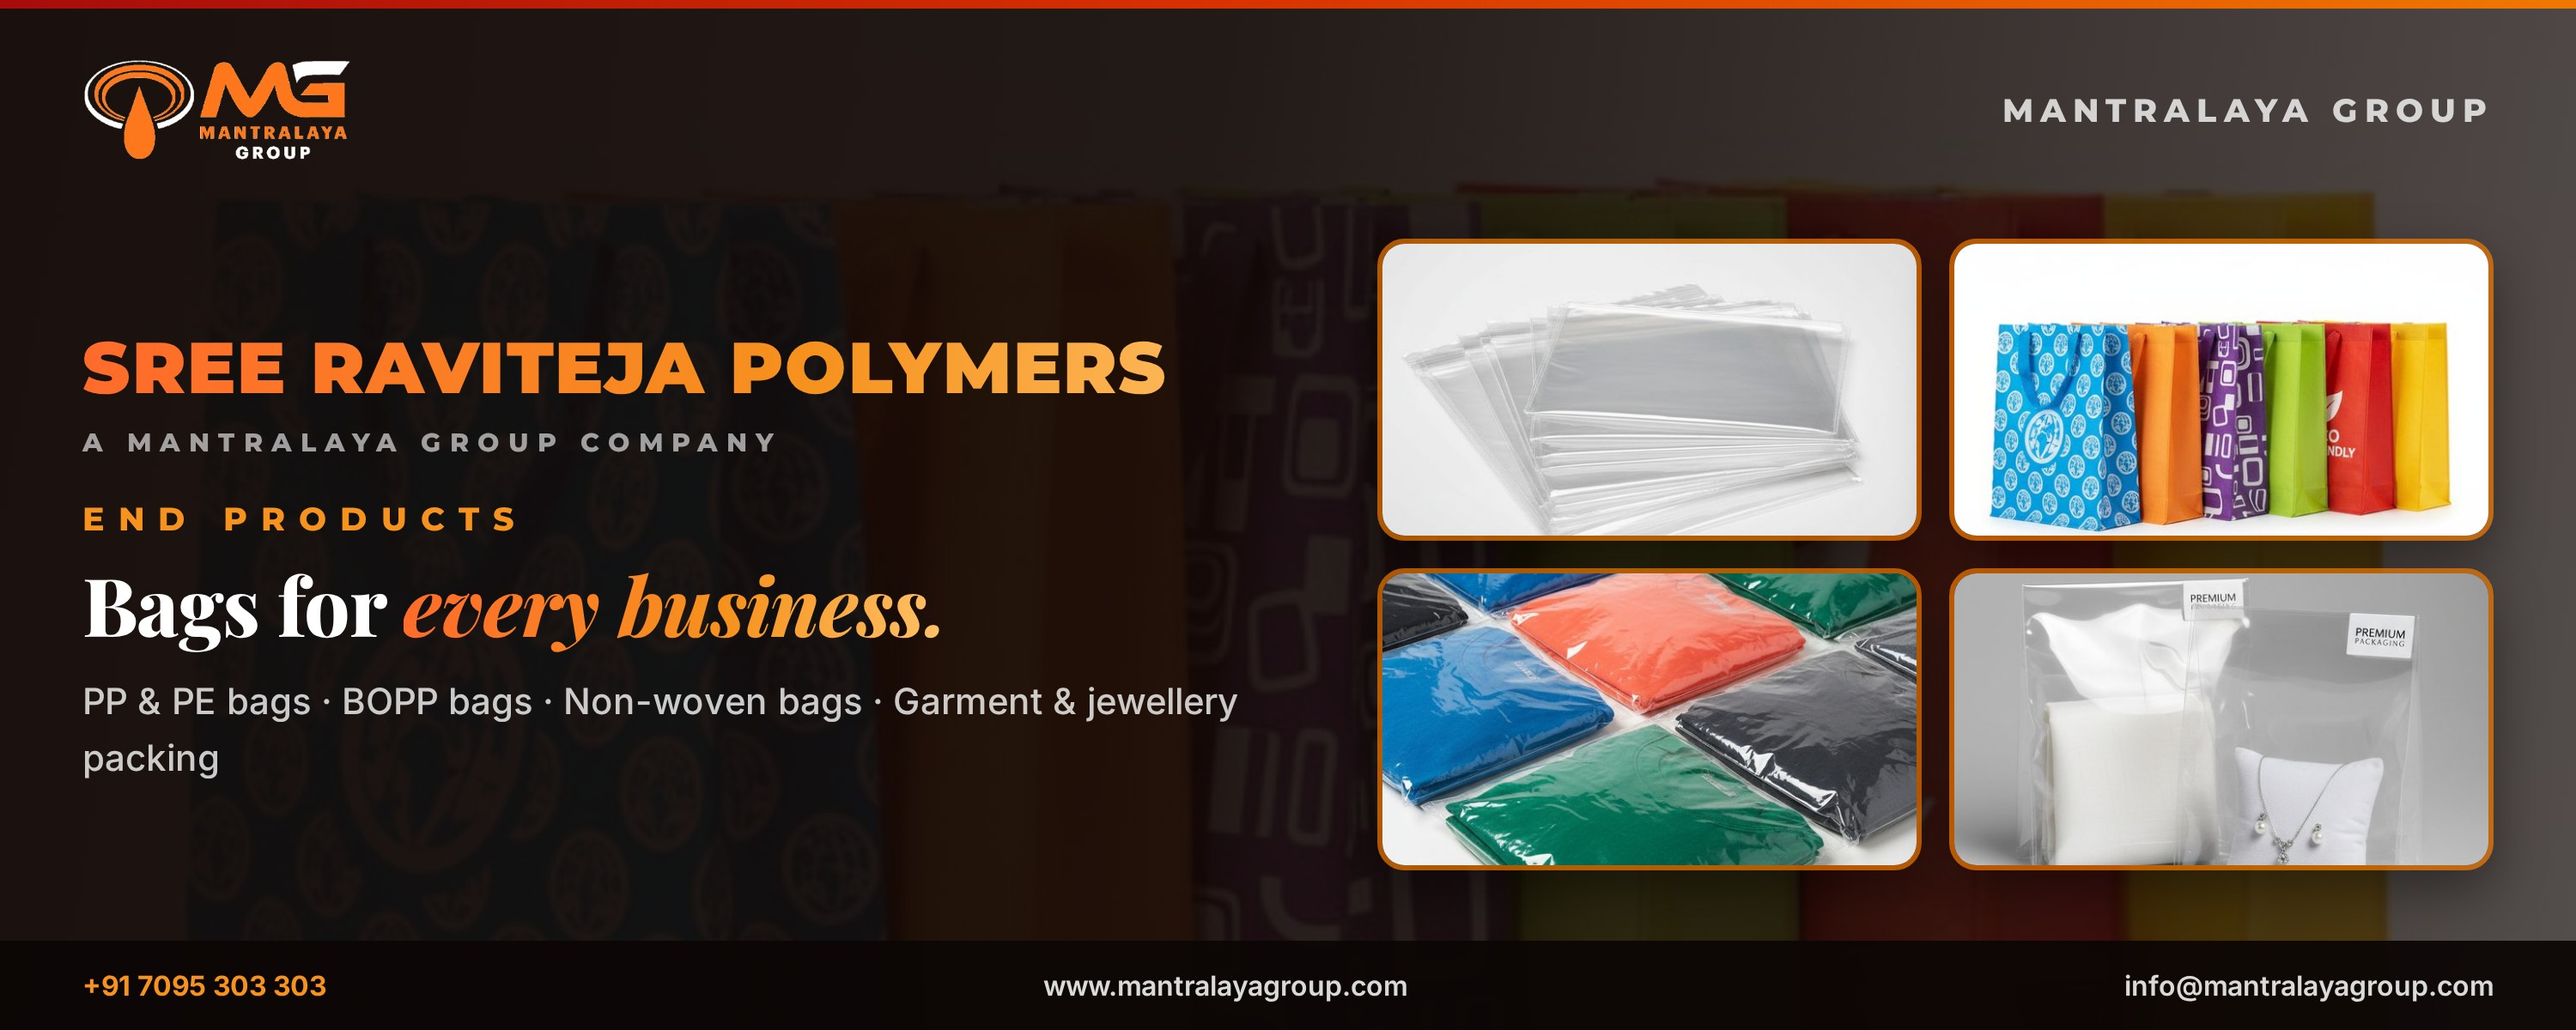
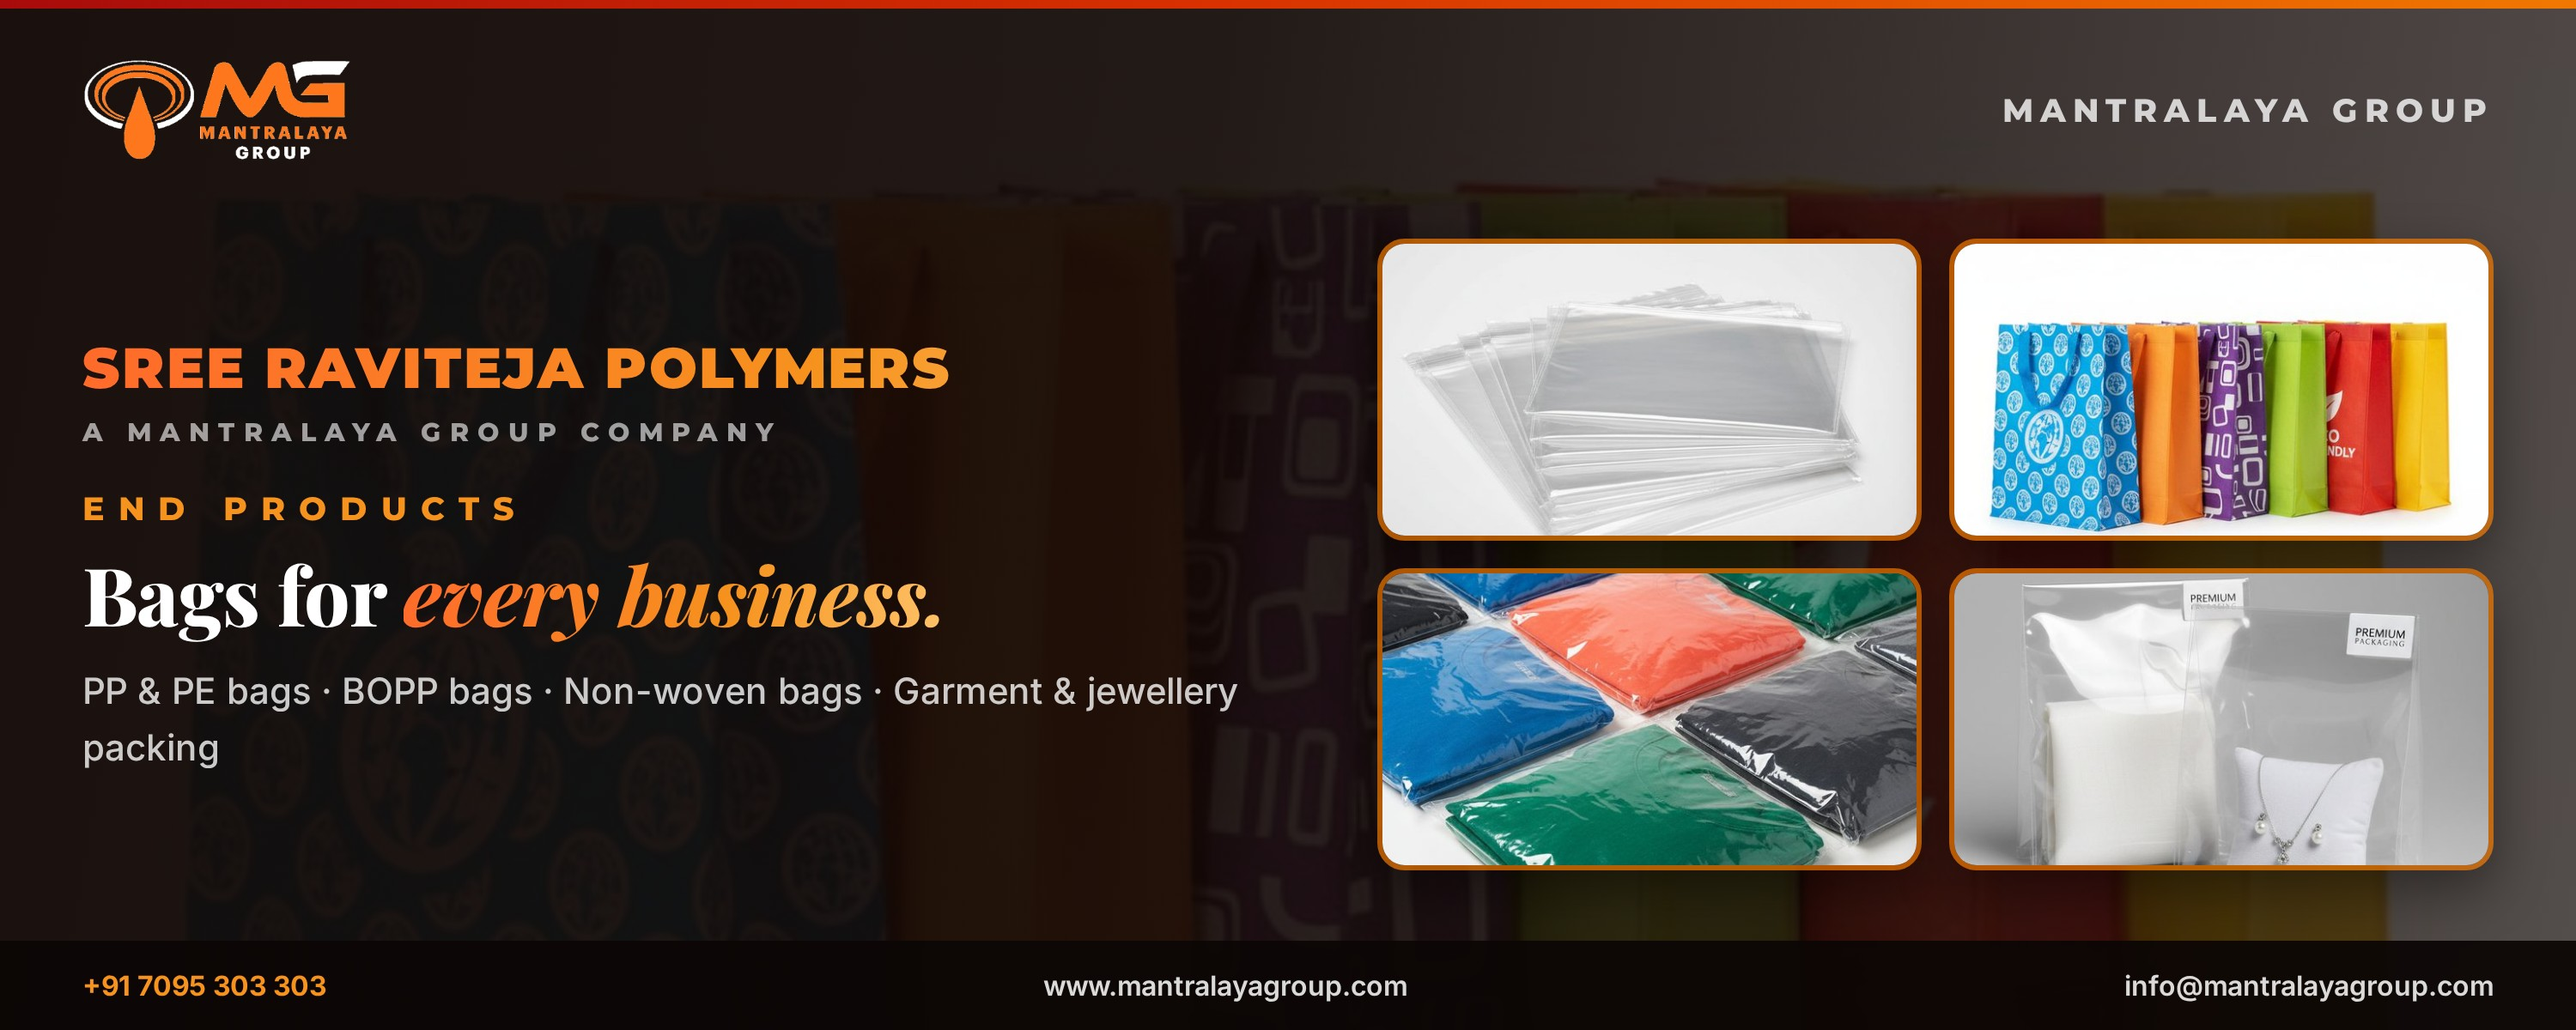
Poster 09: smaller Sree Raviteja Polymers heading

Changed region(s): [[0.031, 0.3083, 0.465, 0.5242], [0.031, 0.555, 0.496, 0.7708]]

diff --git a/posters/src/poster-09-bags--dark.html b/posters/src/poster-09-bags--dark.html
@@ -19,7 +19,7 @@ body{width:1500px;height:600px;overflow:hidden;position:relative;font-family:'Mo
 .cap2{font-size:47px;margin-top:12px}
 .cap2 em{background:linear-gradient(100deg,#FF6A2B,#F6921E 60%,#FFC46B);-webkit-background-clip:text;background-clip:text;color:transparent;font-style:italic}
 .sub{margin-top:16px;font-family:'Inter',sans-serif;font-size:21px;font-weight:500;color:rgba(255,255,255,0.78);line-height:1.55}
-.cohero{font-size:42px;font-weight:900;letter-spacing:1px;background:linear-gradient(100deg,#FF6A2B,#F6921E 60%,#FFC46B);-webkit-background-clip:text;background-clip:text;color:transparent;}
+.cohero{font-size:33px;font-weight:900;letter-spacing:1px;background:linear-gradient(100deg,#FF6A2B,#F6921E 60%,#FFC46B);-webkit-background-clip:text;background-clip:text;color:transparent;}
 .cotag{margin-top:8px;margin-bottom:24px;font-size:15px;font-weight:800;letter-spacing:5px;color:rgba(255,255,255,0.6)}
 .tiles{flex:1;display:grid;grid-template-columns:repeat(2,1fr);gap:16px}
 .tile{border-radius:16px;overflow:hidden;border:3px solid rgba(240,120,0,0.7);aspect-ratio:1.8;box-shadow:0 12px 30px rgba(0,0,0,0.4)}

diff --git a/posters/src/poster-09-bags--light.html b/posters/src/poster-09-bags--light.html
@@ -19,7 +19,7 @@ body{width:1500px;height:600px;overflow:hidden;position:relative;font-family:'Mo
 .cap2{font-size:47px;margin-top:12px}
 .cap2 em{background:linear-gradient(100deg,#A80B0B,#D83000 45%,#F07800);-webkit-background-clip:text;background-clip:text;color:transparent;font-style:italic}
 .sub{margin-top:16px;font-family:'Inter',sans-serif;font-size:21px;font-weight:500;color:#3A4250;line-height:1.55}
-.cohero{font-size:42px;font-weight:900;letter-spacing:1px;background:linear-gradient(100deg,#A80B0B,#D83000 45%,#F07800);-webkit-background-clip:text;background-clip:text;color:transparent;}
+.cohero{font-size:33px;font-weight:900;letter-spacing:1px;background:linear-gradient(100deg,#A80B0B,#D83000 45%,#F07800);-webkit-background-clip:text;background-clip:text;color:transparent;}
 .cotag{margin-top:8px;margin-bottom:24px;font-size:15px;font-weight:800;letter-spacing:5px;color:#8A93A0}
 .tiles{flex:1;display:grid;grid-template-columns:repeat(2,1fr);gap:16px}
 .tile{border-radius:16px;overflow:hidden;border:3px solid #D83000;aspect-ratio:1.8;box-shadow:0 12px 30px rgba(0,0,0,0.12)}

diff --git a/posters/gen2.py b/posters/gen2.py
@@ -84,7 +84,7 @@ def appsposter(w,h,dark,label,cap,cols_data,bgphoto):
 </style>{bgimg(bgphoto)}{hdr(dark)}
 <div class="wrap z"><div class="label">{label}</div><div class="cap cap2">{cap}</div><div class="cols">{cols}</div></div>{FOOT}"""
 
-def duoposter(w,h,dark,label,cap,sub,photos,bgphoto,co='MANTRALAYA GROUP',cohero=None,tile_ar=None):
+def duoposter(w,h,dark,label,cap,sub,photos,bgphoto,co='MANTRALAYA GROUP',cohero=None,tile_ar=None,cohero_size=42):
     tcls = 'tiles three' if len(photos)==3 else 'tiles'
     hero = ''
     if cohero:
@@ -96,7 +96,7 @@ def duoposter(w,h,dark,label,cap,sub,photos,bgphoto,co='MANTRALAYA GROUP',cohero
 .cap2{{font-size:47px;margin-top:12px}}
 .cap2 em{{{GT_W if dark else GT_D}font-style:italic}}
 .sub{{margin-top:16px;font-family:'Inter',sans-serif;font-size:21px;font-weight:500;color:{'rgba(255,255,255,0.78)' if dark else '#3A4250'};line-height:1.55}}
-.cohero{{font-size:42px;font-weight:900;letter-spacing:1px;{GT_W if dark else GT_D}}}
+.cohero{{font-size:{cohero_size}px;font-weight:900;letter-spacing:1px;{GT_W if dark else GT_D}}}
 .cotag{{margin-top:8px;margin-bottom:24px;font-size:15px;font-weight:800;letter-spacing:5px;color:{'rgba(255,255,255,0.6)' if dark else '#8A93A0'}}}
 .tiles{{flex:1;display:grid;grid-template-columns:repeat(2,1fr);gap:16px}}
 .tile{{border-radius:16px;overflow:hidden;border:3px solid {'rgba(240,120,0,0.7)' if dark else '#D83000'};aspect-ratio:{tile_ar or 1.25};box-shadow:0 12px 30px rgba(0,0,0,{'0.4' if dark else '0.12'})}}
@@ -481,7 +481,7 @@ def build(dark):
     v['poster-08-sutli-ropes'] = (1500,600, duoposter(1500,600,dark,'END PRODUCTS',f"Sutli, ropes &amp; twine — {em('every budget.')}",
       'Sutli under multiple brands · Reprocessed plastic granules from recycled waste.',['plastic-sutli','rope-yellow','recycled-granules'],'ropes',cohero='BALA GANESHA POLYMERS'))
     v['poster-09-bags'] = (1500,600, duoposter(1500,600,dark,'END PRODUCTS',f"Bags for {em('every business.')}",
-      'PP &amp; PE bags · BOPP bags · Non-woven bags · Garment &amp; jewellery packing',['pp-bags','non-woven-bags','garment-bags','bopp-bags'],'non-woven-bags',cohero='SREE RAVITEJA POLYMERS',tile_ar=1.8))
+      'PP &amp; PE bags · BOPP bags · Non-woven bags · Garment &amp; jewellery packing',['pp-bags','non-woven-bags','garment-bags','bopp-bags'],'non-woven-bags',cohero='SREE RAVITEJA POLYMERS',tile_ar=1.8,cohero_size=33))
     v['poster-10-films'] = (1000,1000, photoposter(1000,1000,dark,'POLY FILMS','Films that protect what you make.','Treated rolls · Stretch film · Packaging films','treated-rolls'))
     v['poster-11-pands'] = (1000,1500, collageposter(1000,1500,dark,'PRODUCTS &amp; STORES',f"Everything plastic.<br>{em('Off the shelf.')}",
       'Retail &amp; bulk — explore the full catalogue.','productsandstores.com',['coloured-granules','plastic-sutli','pp-bags','pigments','ropes','non-woven-bags']))
